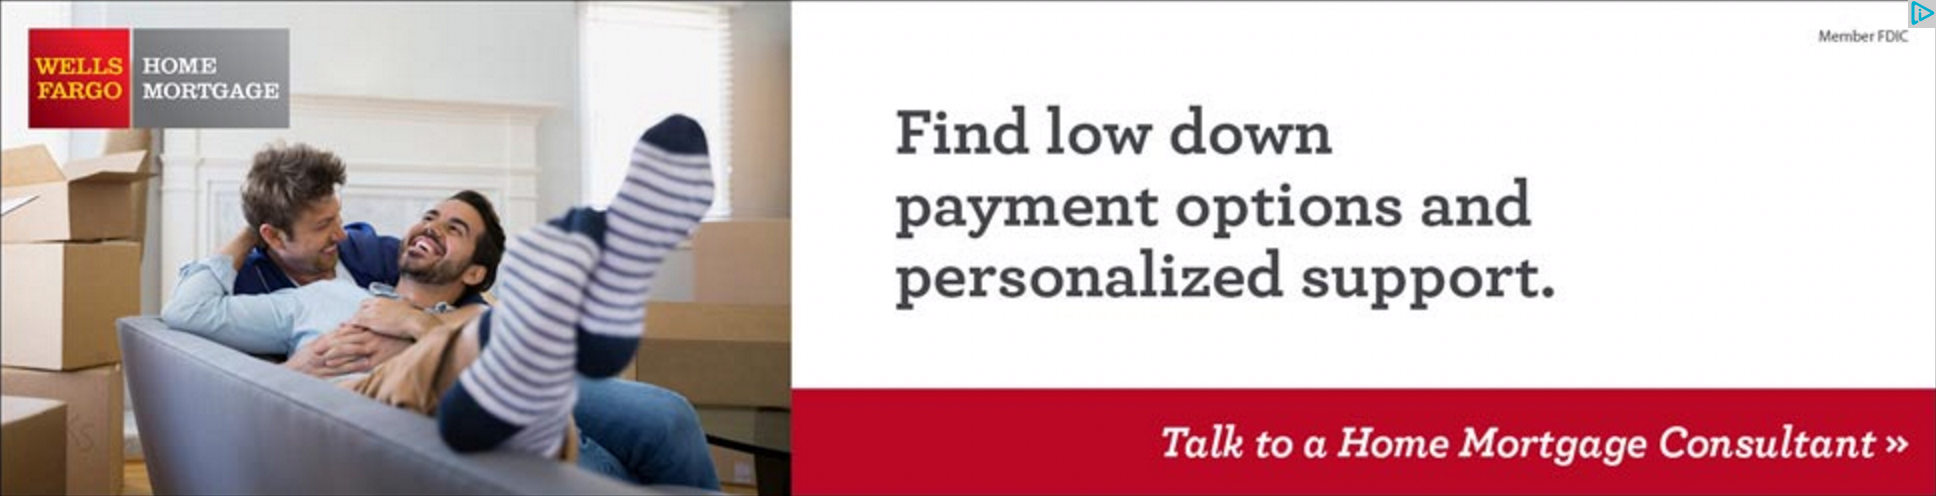
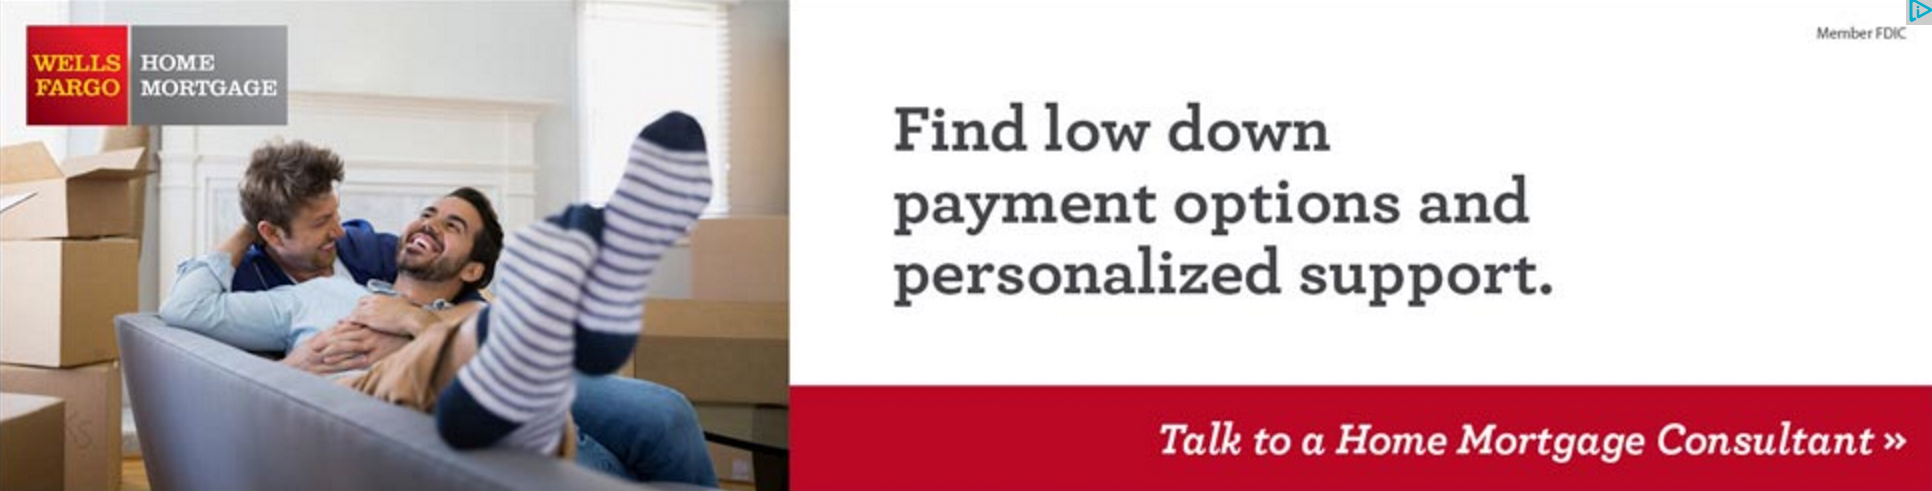
style ad section for tablet view

diff --git a/css/main.css b/css/main.css
@@ -456,7 +456,7 @@ h2 {
   font-size: 1.5em;
 }
 
-@media only screen and (min-width: 650px) {
+@media only screen and (min-width: 690px) {
   .top-stories h3 {
     font-size: .9em;
   }
@@ -549,7 +549,7 @@ body {
   float: left;
   margin-left: 20px;
 }
-@media only screen and (min-width: 650px) {
+@media only screen and (min-width: 690px) {
   .top-stories .story {
     width: calc(33.33333% - 26.66667px);
     float: left;
@@ -567,6 +567,13 @@ body {
   float: left;
   margin-left: 20px;
   margin-left: calc(16.66667% - 23.33333px + 40px);
+}
+@media only screen and (min-width: 690px) {
+  .ad .ad-container {
+    width: calc(100% - 40px);
+    float: left;
+    margin-left: 20px;
+  }
 }
 
 .latest-stories::after {
@@ -669,7 +676,7 @@ body {
 .story h3 {
   padding: 0 20px 20px 20px;
 }
-@media only screen and (min-width: 650px) {
+@media only screen and (min-width: 690px) {
   .story {
     height: 325px;
     overflow: hidden;
@@ -685,6 +692,18 @@ body {
 }
 .ad img {
   width: 100%;
+}
+.ad img:last-of-type {
+  display: none;
+}
+@media only screen and (min-width: 690px) {
+  .ad img:first-of-type {
+    display: none;
+  }
+  .ad img:last-of-type {
+    display: block;
+    border: solid 1px #d3d0cf;
+  }
 }
 
 .divider {

diff --git a/sass/layout/_ad.scss b/sass/layout/_ad.scss
@@ -3,4 +3,17 @@
   img {
     width: 100%;
   }
+  img:last-of-type {
+    display: none;
+  }
+
+  @media #{$breakpoint-medium} {
+    img:first-of-type {
+      display: none;
+    }
+    img:last-of-type {
+      display: block;
+      border: solid 1px $border;
+    }
+  }
 }

diff --git a/sass/abstracts/_variables.scss b/sass/abstracts/_variables.scss
@@ -4,5 +4,5 @@ $border: #d3d0cf;
 $background: #f7f7f7;
 $footer: #706966;
 
-$breakpoint-medium: "only screen and (min-width: 650px)";
+$breakpoint-medium: "only screen and (min-width: 690px)";
 $breakpoint-large: "only screen and (min-width: 1024px)";

diff --git a/index.html b/index.html
@@ -37,6 +37,7 @@
     <div class="ad">
       <div class="ad-container">
         <img src="img/ad.png" alt="" />
+        <img src="img/ad-large.png" alt="" />
       </div>
     </div>
     <div class="latest-stories">

diff --git a/sass/layout/_grid.scss b/sass/layout/_grid.scss
@@ -13,6 +13,10 @@
   .ad-container {
     @include grid-column(8);
     @include grid-push(2);
+
+    @media #{$breakpoint-medium} {
+      @include grid-column(12);
+    }
   }
 }
 
